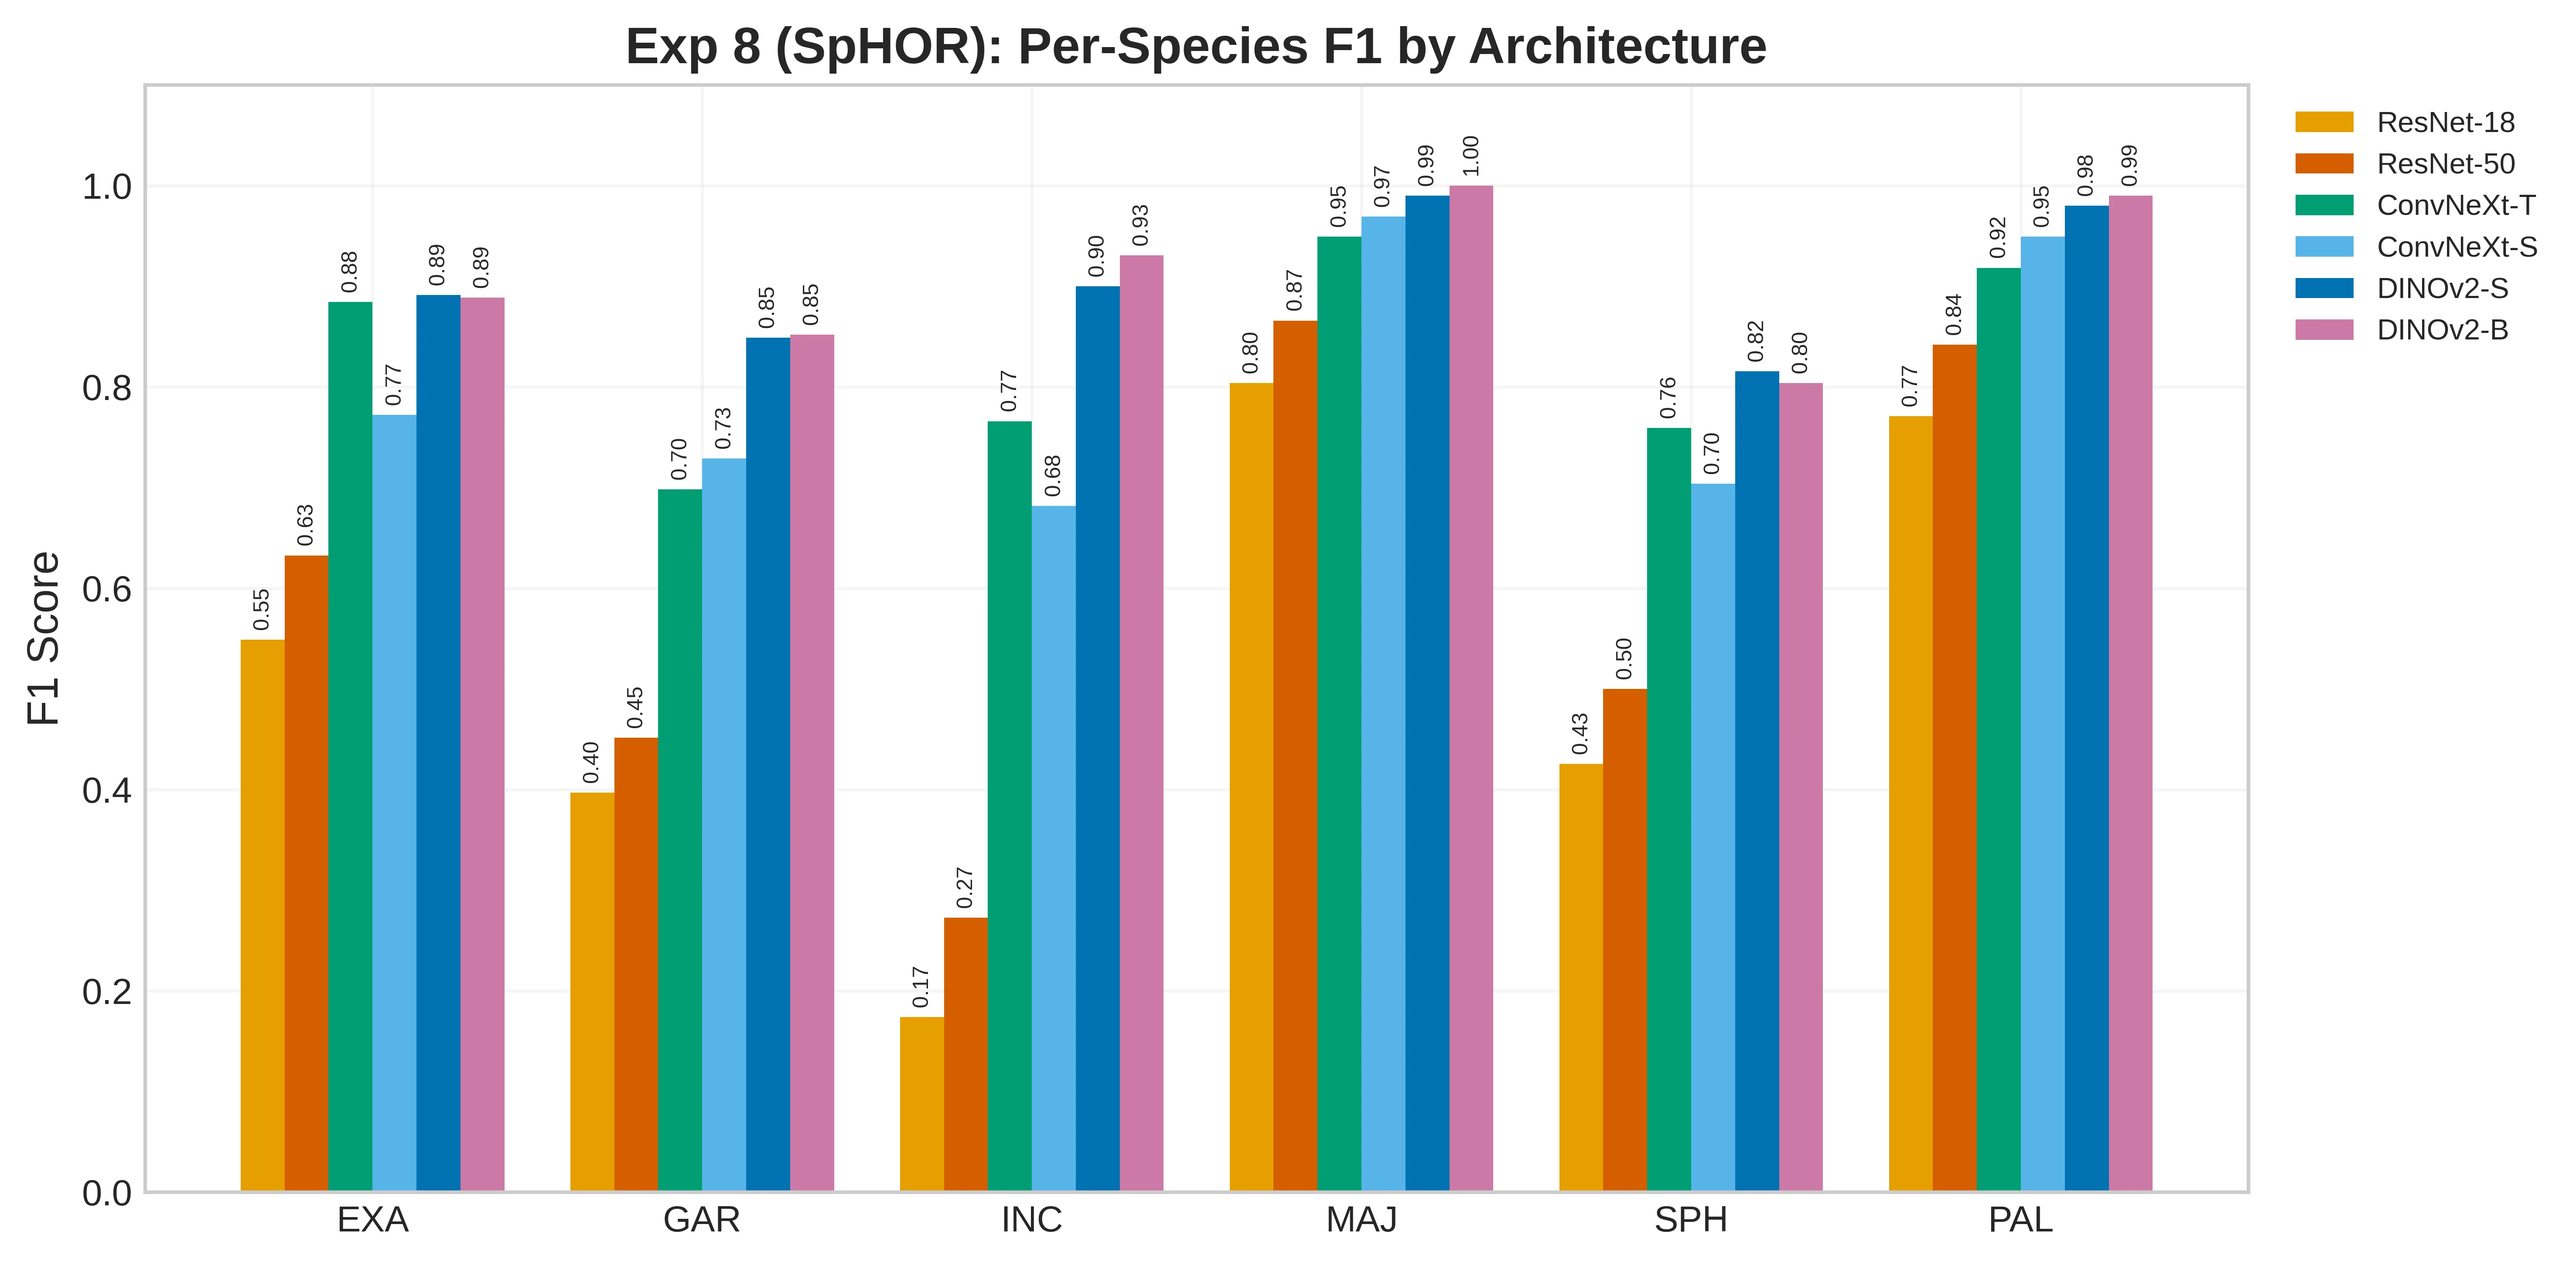
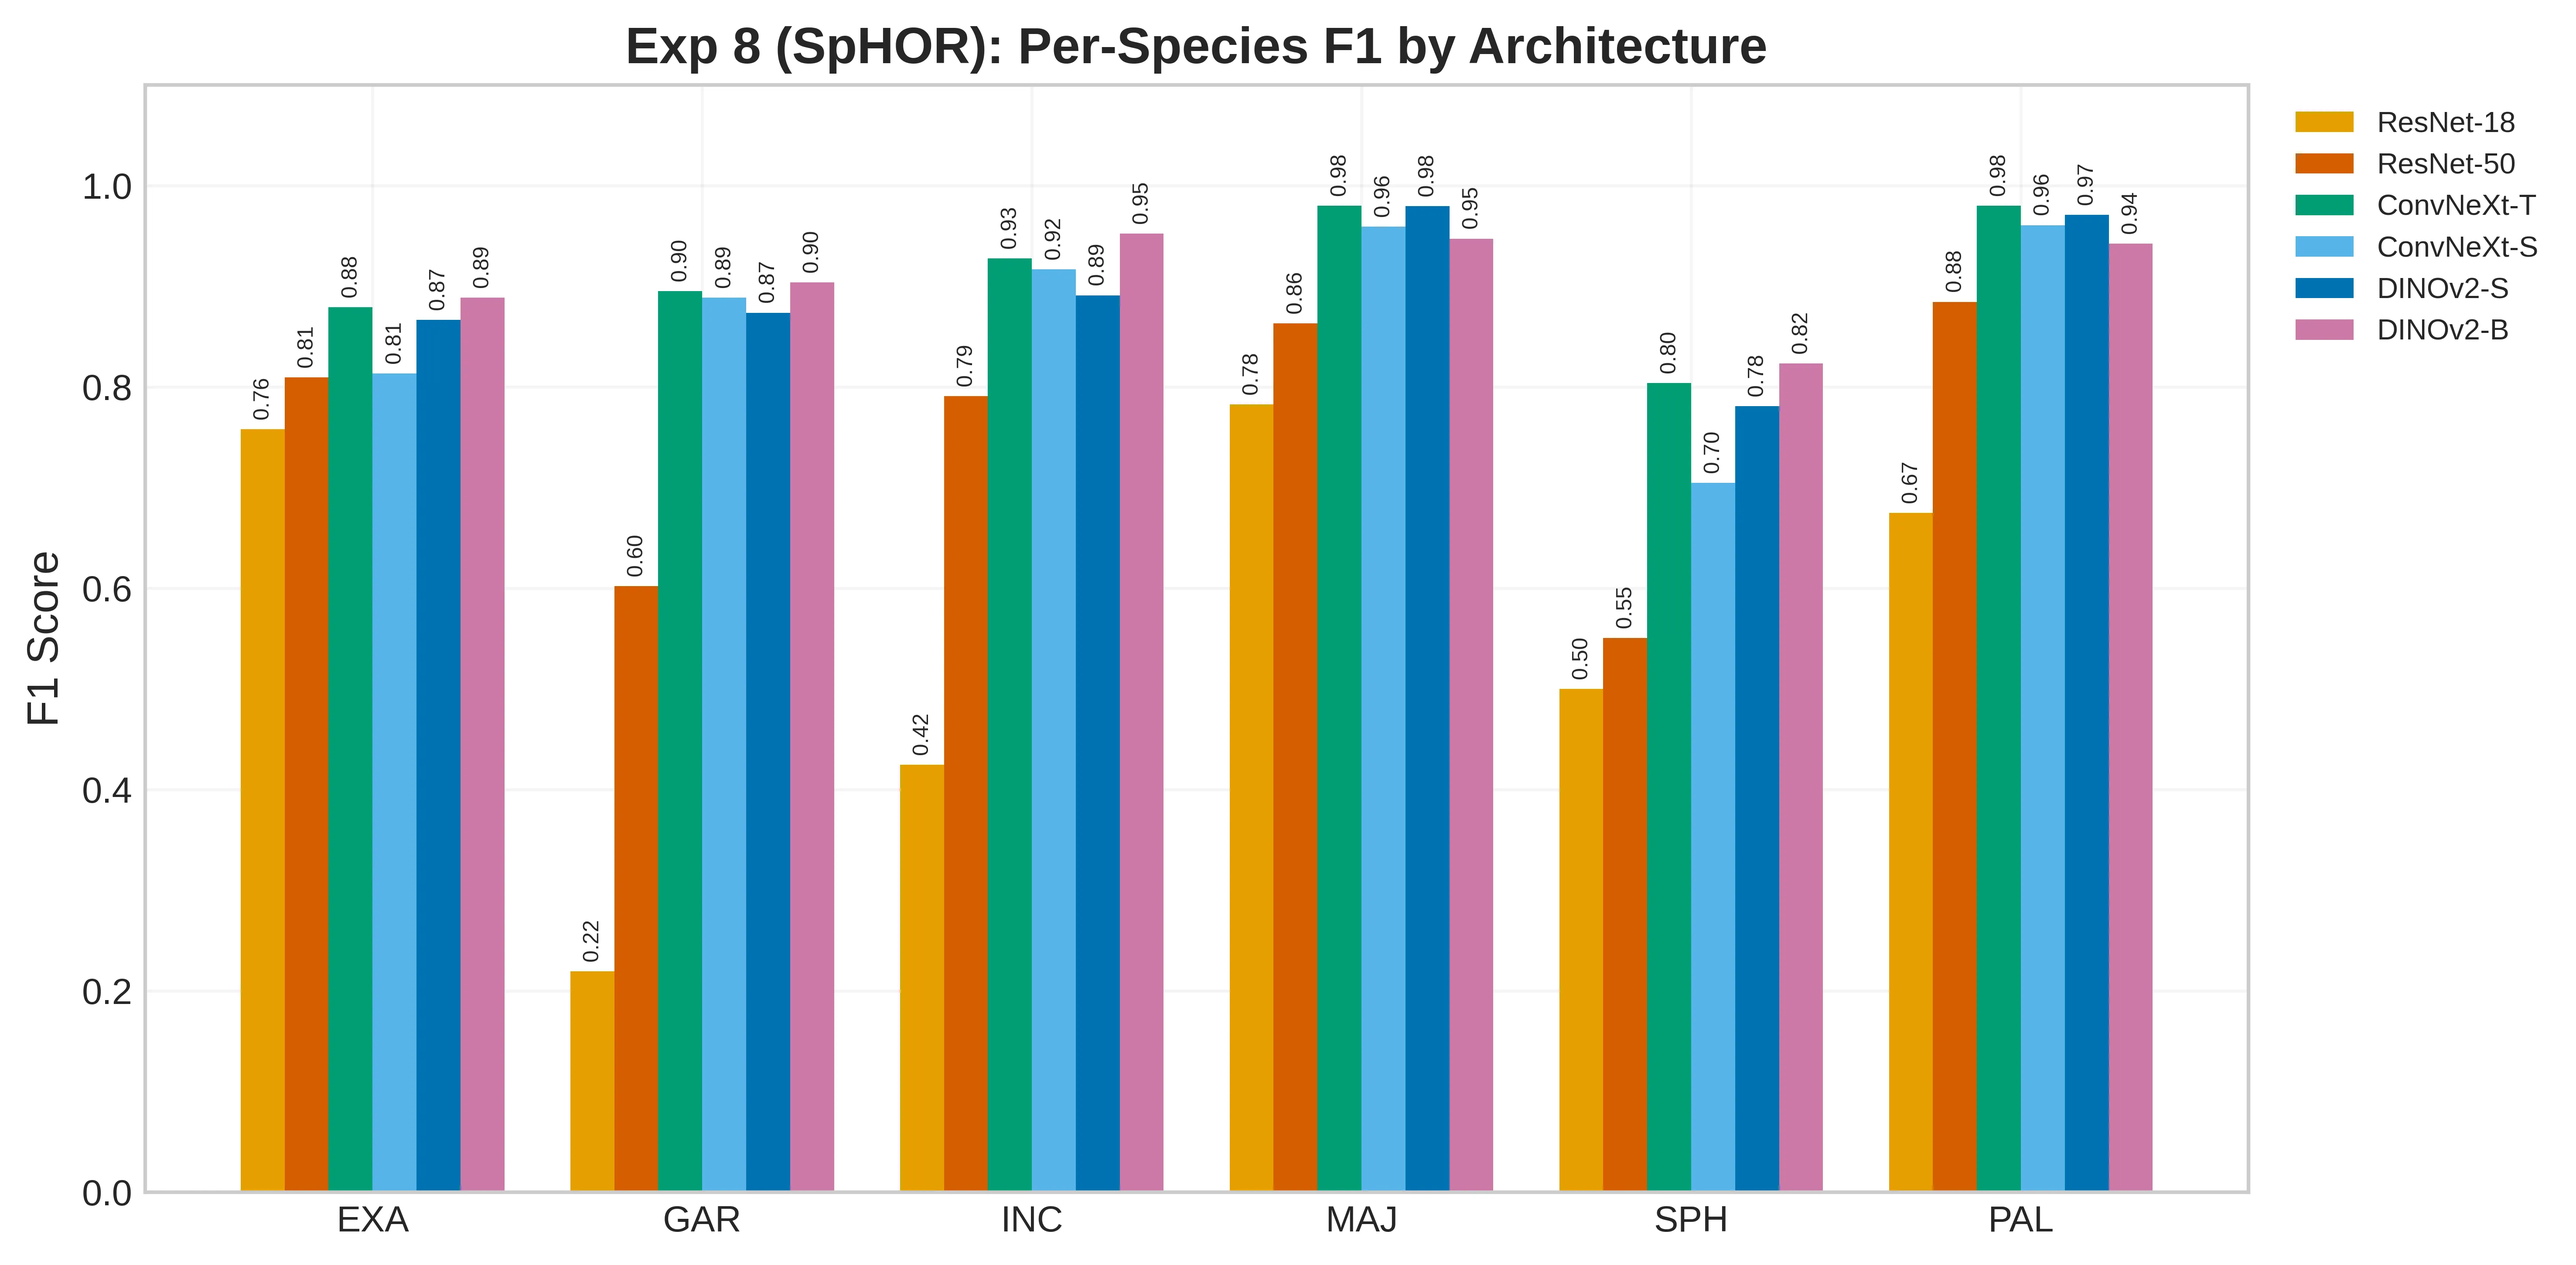
feat: viz rigenerate con dati exp8/exp9 + nuovo t-SNE novel class
- 13 webp della ResearchPage aggiornate dalle png rigenerate (16 ago):
  benchmark, confusion matrices, exp8/exp10 per-species, cv-test gap,
  loss aggregate, spotlight, summary heatmap, t-SNE exp8 (prima erano
  del 15 luglio con dati sphegodes_Napoli/0.907 obsoleti)
- nuova viz exp9_tsne_novel.webp: t-SNE known-vs-unknown per DINOv2-Base
  (5 classi note + novel O. garganica come croci), inclusa nella
  sottosezione clustering di Exp 9 con caption i18n

diff --git a/frontend/src/pages/ResearchPage.tsx b/frontend/src/pages/ResearchPage.tsx
@@ -515,6 +515,11 @@ export function ResearchPage() {
             <P>
               {t("research.exp9_clustering")}
             </P>
+            <Figure
+              src="/figures/exp9_tsne_novel.webp"
+              alt="t-SNE known vs novel Exp 9"
+              caption={t("research.exp9_tsne_novel_caption")}
+            />
           </SubSection>
         </Section>
 
